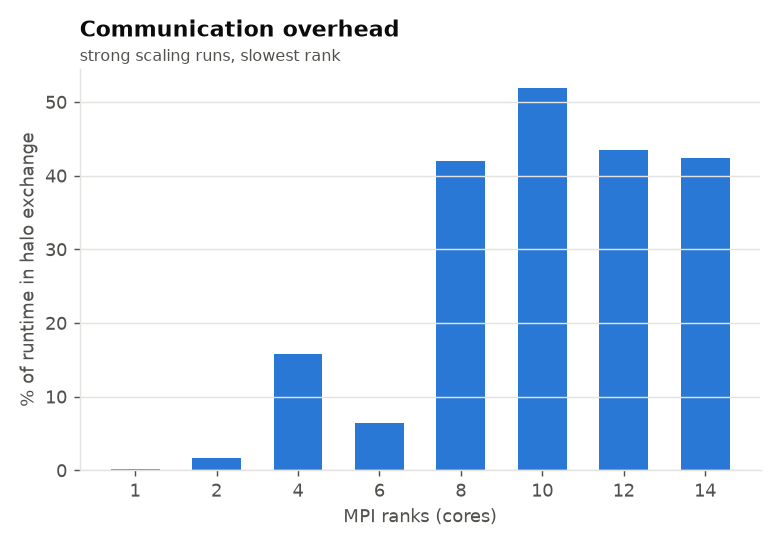
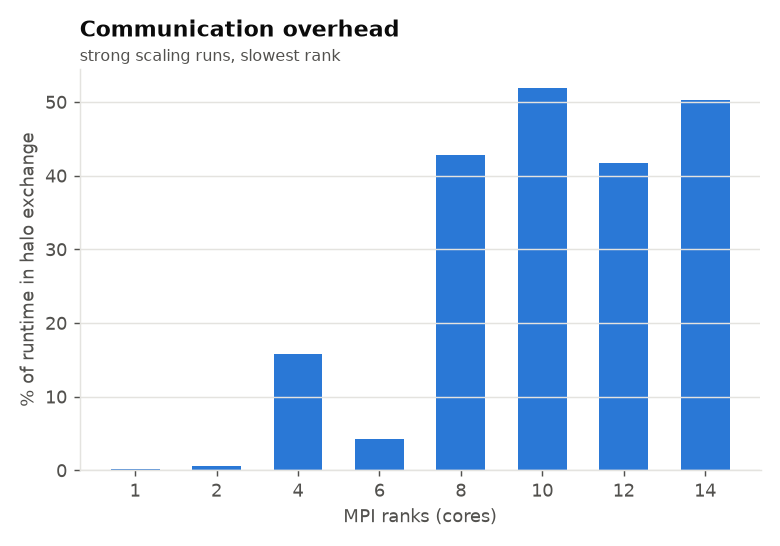
Added best of 3 scaling results

diff --git a/README.md b/README.md
@@ -15,7 +15,7 @@ Everything runs locally on an M4 Pro MacBook (14 CPU cores: 10 performance + 4 e
 
 - **25× faster than NumPy** with a hand-written Metal kernel on a 4096² grid
 - **209 GB/s effective memory bandwidth** at 4096² (76% of the M4 Pro's 273 GB/s peak), peaking at 235 GB/s (86%) at 1024²
-- **94% parallel efficiency on 6 MPI ranks** (5.6× speedup), with 2D domain decomposition and halo exchange
+- **96% parallel efficiency on 6 MPI ranks** (5.8× speedup), with 2D domain decomposition and halo exchange
 - A job API with Prometheus metrics and a Grafana dashboard, all running in Docker Compose
 
 ## The math
@@ -115,18 +115,18 @@ Each rank is pinned to one thread (`NUMBA_NUM_THREADS=1`), so ranks equal cores.
 - **Strong scaling:** fixed 4096² grid, more ranks.
 - **Weak scaling:** 2048² cells per rank, so the global grid grows like `2048·√p`.
 
-**Results** (4096² grid for strong scaling, 2048² cells per rank for weak):
+**Results** (4096² grid for strong scaling, 2048² cells per rank for weak; best of 3 sweeps):
 
 | ranks | process grid | strong speedup | strong efficiency | weak efficiency | halo % (strong) |
 |---|---|---|---|---|---|
 | 1 | 1×1 | 1.00× | 100% | 100% | 0% |
-| 2 | 2×1 | 1.95× | 98% | 86% | 2% |
-| 4 | 2×2 | 3.34× | 83% | 85% | 16% |
-| 6 | 3×2 | **5.63×** | **94%** | 57% | 6% |
-| 8 | 4×2 | 4.43× | 55% | 56% | 42% |
-| 10 | 5×2 | 4.50× | 45% | 54% | 52% |
-| 12 | 4×3 | 6.14× | 51% | 43% | 44% |
-| 14 | 7×2 | 6.18× | 44% | 44% | 42% |
+| 2 | 2×1 | 1.97× | 98% | 86% | 1% |
+| 4 | 2×2 | 3.34× | 83% | 90% | 16% |
+| 6 | 3×2 | **5.76×** | **96%** | 73% | 4% |
+| 8 | 4×2 | 4.44× | 56% | 58% | 43% |
+| 10 | 5×2 | 4.50× | 45% | 68% | 52% |
+| 12 | 4×3 | 6.47× | 54% | 46% | 42% |
+| 14 | 7×2 | 6.26× | 45% | 44% | 50% |
 
 ![strong](results/plots/strong_scaling.png)
 ![weak](results/plots/weak_scaling.png)
@@ -134,11 +134,11 @@ Each rank is pinned to one thread (`NUMBA_NUM_THREADS=1`), so ranks equal cores.
 
 What the numbers say:
 
-- **Scaling is close to ideal up to 6 ranks** (94% strong efficiency), then flattens out. Going from 6 to 14 ranks barely helps: 5.6× → 6.2×.
-- **The wall is memory bandwidth, not communication.** Each rank streams through about 1260 MLUPS × 8 bytes ≈ 10 GB/s, and the CPU cores together top out somewhere around 150 GB/s (see Numba in Phase 1). Six or so ranks already use a big share of that, so adding more cores just splits the same bandwidth more ways. The weak scaling drop after 4 ranks is the same effect.
-- **"Halo %" is mostly waiting, not sending.** It's the time spent inside `Sendrecv`, which includes waiting for a slower neighbour to arrive. The messages are tiny (one 4096-float row is 16 KB), so the jump to 40–50% beyond 6 ranks is load imbalance: ranks slowed down by bandwidth contention, or put on an efficiency core by macOS (which doesn't let you pin processes to cores), hold everyone else up at the next exchange.
-- **These are single runs, so there's noise.** The 4-rank result looks worse than 6, which is almost certainly scheduling jitter. Rerunning `make scaling` a few times and taking the best would smooth it out.
-- **On a real cluster** each node brings its own memory bandwidth, so scaling across nodes should hold up much better than scaling across cores on one chip. The code doesn't change, only the `mpirun` line.
+- **Scaling is close to ideal up to 6 ranks** (96% strong efficiency), then falls off. 14 ranks only reach 6.3×.
+- **The overall ceiling is memory bandwidth, not communication.** Each rank streams through about 1260 MLUPS × 8 bytes ≈ 10 GB/s, and the CPU cores together top out somewhere around 150 GB/s (see Numba in Phase 1). Past about 6 ranks, adding more cores just splits the same bandwidth more ways.
+- **"Halo %" is mostly waiting, not sending.** It's the time spent inside `Sendrecv`, which includes waiting for a slower neighbour to arrive. The messages are tiny (one 4096-float row is 16 KB), so the jump to 40–50% beyond 6 ranks is load imbalance: one slow rank holds everyone up at the next exchange.
+- **The dips at 4 and 8–10 ranks are reproducible, not noise.** All three sweeps gave the same shape (4 ranks always about 0.80 s, 8 and 10 always slower than 6). My best guess is how macOS places processes on the M4 Pro's two 5-core performance clusters. Each cluster shares an L2 cache and a link to memory, and macOS doesn't let you pin processes to cores, so some layouts end up with an unbalanced cluster or a rank on an efficiency core. I haven't confirmed this. Confirming it would need a machine where ranks can be pinned to specific cores (e.g. Linux with `--bind-to core`).
+- **On a real cluster** each node brings its own memory bandwidth and ranks can be pinned, so scaling across nodes should hold up much better than scaling across cores on one laptop chip. The code doesn't change, only the `mpirun` line.
 
 ## Phase 3: job service + monitoring
 
@@ -194,3 +194,7 @@ tests/
 - Overlap the halo exchange with the interior update (`Isend`/`Irecv`, update the interior, wait, then update the edges).
 - Run the MPI version on a real cluster with Slurm.
 - A CUDA version of the tiled kernel (CuPy `RawKernel`) to compare against an NVIDIA GPU.
+
+## License
+
+MIT, see [LICENSE](LICENSE).
